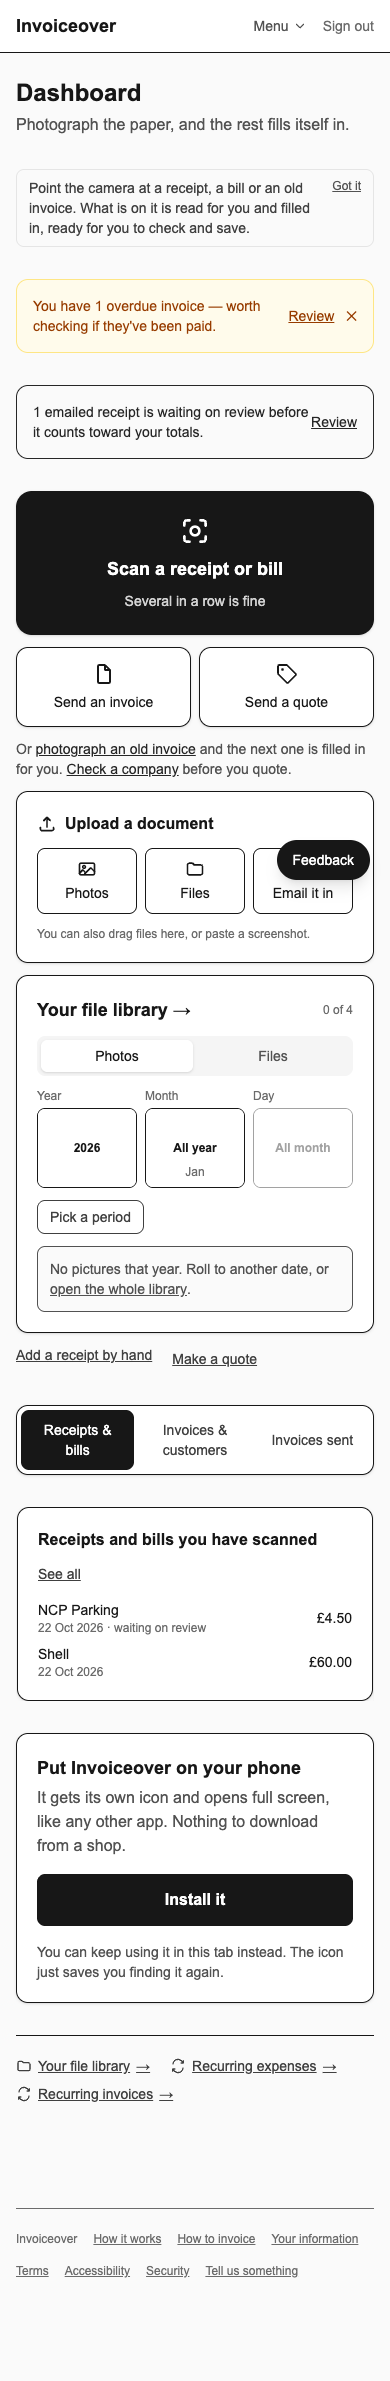
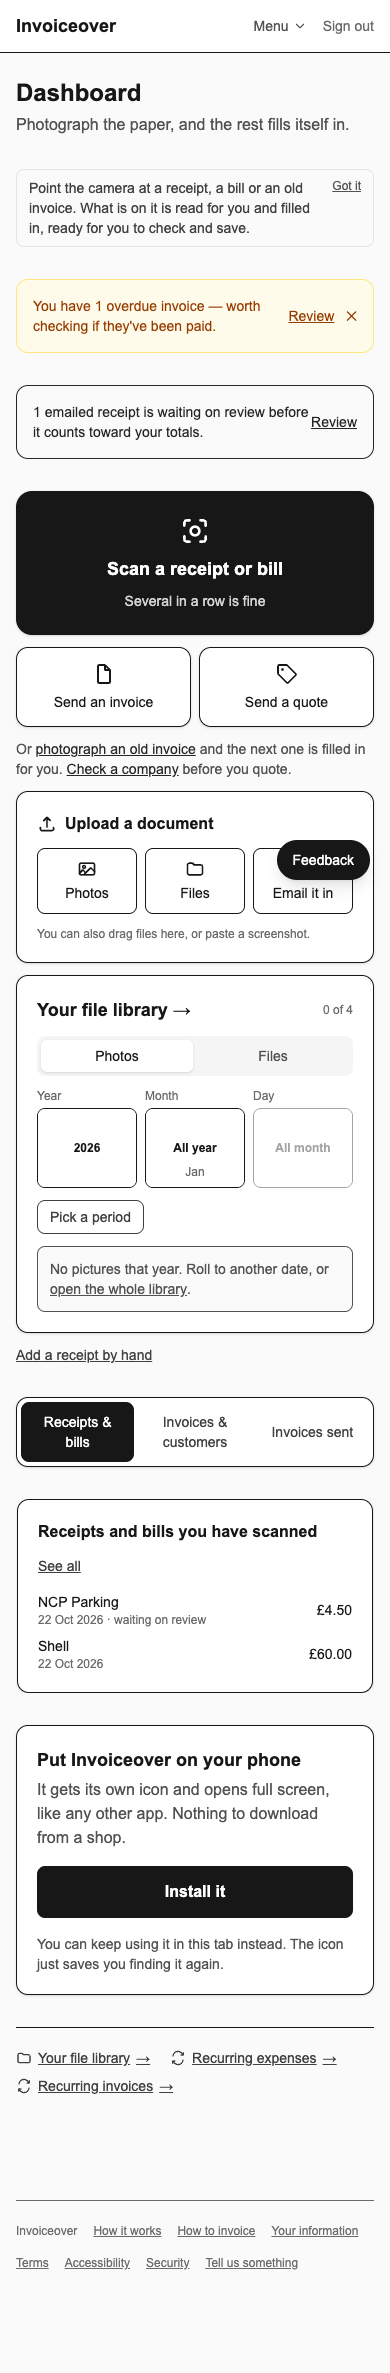
A new account's Home shows only what it can act on
An empty file library, the three panel tabs over nothing, Nothing here yet and
the Other tools links made a brand new Home 3.9 screens of 'nothing yet'. They
arrive with the first receipt or invoice; Just starting? and Make a quote went,
repeating the setup card and the Send a quote button. Now 2.6 screens, every
block something to do. test-empty-account and test-getting-started greet with
Setting up now.

diff --git a/web/src/app/page.tsx b/web/src/app/page.tsx
@@ -555,20 +555,19 @@ function Dashboard() {
 
         {/* Straight under the upload tile, as he asked: upload a document,
             then see the documents you have. */}
-        <FileStrip receipts={allReceipts} invoices={allInvoices} />
-
-        {!hasAnything && (
-          <p className="rounded-lg border bg-neutral-50 p-3 text-sm text-neutral-700">
-            Just starting? Scan a few invoices you have already sent and the numbering carries on from yours. A handful
-            is plenty &mdash; you do not need to go back through the year.
-          </p>
-        )}
+        {/* A brand new account sees only what it can act on (2026-10-22): an
+            empty library, empty panels and a row of tabs over nothing made Home
+            nearly four screens of "nothing yet". They arrive with the first
+            receipt or invoice. "Just starting?" went too: setting up from an
+            invoice already sent says it, and does it. */}
+        {hasAnything && <FileStrip receipts={allReceipts} invoices={allInvoices} />}
 
         <div className="flex flex-wrap gap-x-5 gap-y-2 text-sm">
           <Link href="/receipts/new" className="font-medium text-neutral-700 underline">Add a receipt by hand</Link>
-          <Link href="/quotes/new" className="inline-block py-1 font-medium text-neutral-700 underline">Make a quote</Link>
         </div>
       </section>
+
+      {hasAnything && (<>
 
       {/* Three panels, one page. */}
       <div role="tablist" aria-label="What to look at" className="flex gap-1 rounded-xl border bg-white p-1 shadow-sm">
@@ -586,16 +585,6 @@ function Dashboard() {
           </button>
         ))}
       </div>
-
-      {!hasAnything && (
-        <div className="rounded-xl border bg-white p-5 text-neutral-900 shadow-sm">
-          <h2 className="font-semibold">Nothing here yet</h2>
-          <p className="mt-1 text-neutral-600">
-            Scan a receipt or write an invoice and this page fills in: what you&apos;re owed, what&apos;s overdue, and what
-            you&apos;ve spent this month.
-          </p>
-        </div>
-      )}
 
       {/* One track, three panels: sliding between them with a finger is how a
           phone moves, and only this strip moves -- the header, the scanner and
@@ -850,11 +839,13 @@ function Dashboard() {
           </>) },
         ]}
       />
+      </>)}
 
       {/* Shows itself only to someone who has not installed it yet. */}
       <GetTheApp />
 
       {/* Lower and smaller, as he asked: useful, but not what the page is for. */}
+      {hasAnything && (
       <section aria-label="Other tools" className="border-t pt-5">
         <div className="flex flex-wrap gap-x-5 gap-y-2">
           <Link href="/files" className="inline-flex items-center gap-1.5 text-sm font-medium text-neutral-700 underline">
@@ -868,6 +859,7 @@ function Dashboard() {
           </Link>
         </div>
       </section>
+      )}
     </div>
   );
 }
